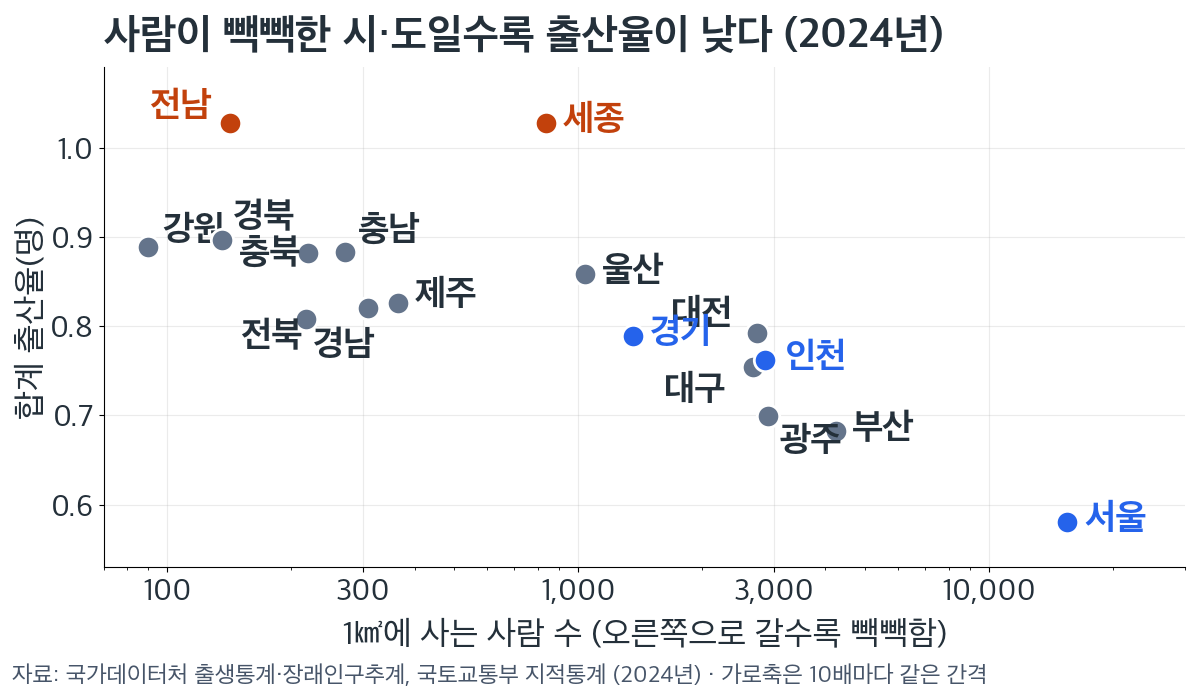
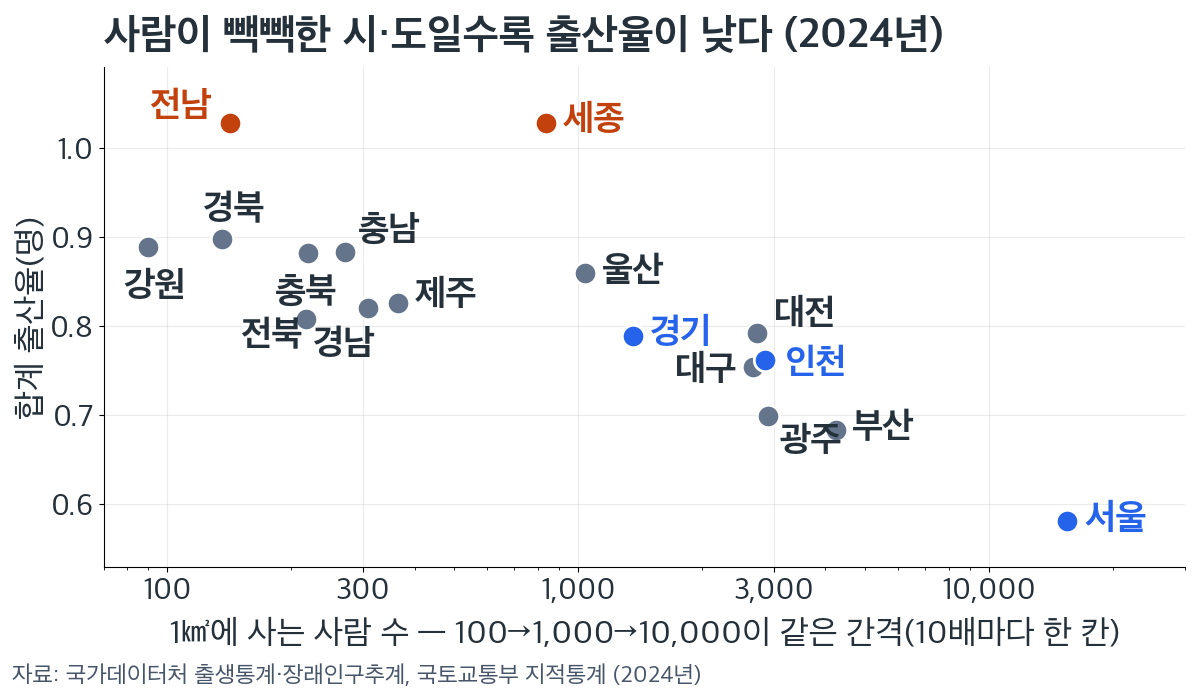
사회② 7-7 일자리 카드 2026년 115.2만·실버 택배 391개 단위, 산점도 이름표·축 설명(메인·역사 🟡🔴 반영)
Claude-Session: https://claude.ai/code/session_0112jfuNjXUAgEuhZG5Yg8vB

diff --git a/worksheets/7-7차시_우리나라의인구문제_개념편.html b/worksheets/7-7차시_우리나라의인구문제_개념편.html
@@ -1463,14 +1463,14 @@ details.v2t-legend ul{margin-top:10px}
 <figure class="ws-fig"><a class="ws-fig-zoom" href="images/7-7_card_job_it.png" target="_blank" rel="noopener" title="눌러서 크게 보기"><img src="images/7-7_card_job_it.png" alt="에버영코리아 — 2024년 시니어 직원 300명 남짓" loading="lazy"></a><figcaption>에버영코리아 — 2024년 시니어 직원 300명 남짓</figcaption></figure>
 <p>2013년에 세워진 에버영코리아는 55세 이상만 뽑는다. 2024년에도 시니어 직원 300명 남짓이 하루 4시간씩 지도 사진 속 얼굴과 자동차 번호판을 가리고, 인터넷 게시물을 살피는 일을 한다.</p>
 </section><section class="ws-sw-pane" data-i="2" hidden><h3 class="ws-sw-h">실버 택배</h3>
-<figure class="ws-fig"><a class="ws-fig-zoom" href="images/7-7_card_job_silver.png" target="_blank" rel="noopener" title="눌러서 크게 보기"><img src="images/7-7_card_job_silver.png" alt="실버 택배 — 지금까지 일자리 1,400여 개" loading="lazy"></a><figcaption>실버 택배 — 지금까지 일자리 1,400여 개</figcaption></figure>
-<p>택배 트럭이 아파트 입구까지 오면, 동네 노인이 전동 카트로 집집마다 나른다. 2013년에 시작해 지금까지 1,400여 개의 일자리가 생겼고, 2024년 한 해에만 391개가 생겼다.</p>
+<figure class="ws-fig"><a class="ws-fig-zoom" href="images/7-7_card_job_silver_v2.png" target="_blank" rel="noopener" title="눌러서 크게 보기"><img src="images/7-7_card_job_silver_v2.png" alt="실버 택배 — 2024년 한 해 노인 일자리 391개" loading="lazy"></a><figcaption>실버 택배 — 2024년 한 해 노인 일자리 391개</figcaption></figure>
+<p>택배 트럭이 아파트 입구까지 오면, 동네 노인이 전동 카트로 집집마다 나른다. 2013년에 시작해 지금도 이어지고, 2024년 한 해에만 노인 일자리 391개를 만들었다고 회사가 밝혔다.</p>
 </section><section class="ws-sw-pane" data-i="3" hidden><h3 class="ws-sw-h">시니어 호스팅</h3>
 <figure class="ws-fig"><a class="ws-fig-zoom" href="images/7-7_card_job_host.png" target="_blank" rel="noopener" title="눌러서 크게 보기"><img src="images/7-7_card_job_host.png" alt="시니어 호스팅 — 2021년 국내 호스트 10명 중 1명이 60세 이상" loading="lazy"></a><figcaption>시니어 호스팅 — 2021년 국내 호스트 10명 중 1명이 60세 이상</figcaption></figure>
 <p>자녀가 떠난 빈방에 여행 손님을 받는다. 2021년 한 숙박 공유 회사의 우리나라 호스트 10명 중 1명이 60세 이상이었다. 다만 한 회사의 숫자라 전체 규모는 알기 어렵고, 지금은 숙박업으로 신고한 집만 손님을 받을 수 있다.</p>
 </section><section class="ws-sw-pane" data-i="4" hidden><h3 class="ws-sw-h">더 큰 그림</h3>
-<figure class="ws-fig"><a class="ws-fig-zoom" href="images/7-7_card_job_gov.png" target="_blank" rel="noopener" title="눌러서 크게 보기"><img src="images/7-7_card_job_gov.png" alt="나라가 만든 노인 일자리 — 2024년 103만 개, 2025년 109만 8천 개" loading="lazy"></a><figcaption>나라가 만든 노인 일자리 — 2024년 103만 개, 2025년 109만 8천 개</figcaption></figure>
-<p>나라도 노인 일자리를 늘리고 있다. 2025년에는 109만 8천 개로 가장 많았다. 7-3·7-4에서 본 외국인 근로자도 모자란 일손을 채우는 또 하나의 길이다.</p>
+<figure class="ws-fig"><a class="ws-fig-zoom" href="images/7-7_card_job_gov_v2.png" target="_blank" rel="noopener" title="눌러서 크게 보기"><img src="images/7-7_card_job_gov_v2.png" alt="나라가 마련한 노인 일자리 — 2024년 103만, 2025년 109만 8천, 2026년 115만 2천 개" loading="lazy"></a><figcaption>나라가 마련한 노인 일자리 — 2024년 103만, 2025년 109만 8천, 2026년 115만 2천 개</figcaption></figure>
+<p>나라도 노인 일자리를 해마다 늘리고 있다. 2026년에는 115만 2천 개를 마련하겠다고 밝혀, 지금까지 가장 많다. 7-3·7-4에서 본 외국인 근로자도 모자란 일손을 채우는 또 하나의 길이다.</p>
 </section></div><div class="ws-sw-nav"><button type="button" onclick="swStep('sw105',-1)">‹ 이전</button><span class="ws-sw-count"><b>1</b> / 5</span><button type="button" onclick="swStep('sw105',1)">다음 ›</button></div></div><script>(function(){if(!window.swGo){window.swGo=function(id,i){var g=document.getElementById(id);if(!g)return;var ps=g.querySelectorAll(".ws-sw-pane"),n=ps.length;i=((i%n)+n)%n;ps.forEach(function(e){e.hidden=(+e.dataset.i!==i);});g.querySelectorAll(".ws-sw-tab").forEach(function(e,k){e.classList.toggle("on",k===i);e.setAttribute("aria-selected",k===i);});var c=g.querySelector(".ws-sw-count b");if(c)c.textContent=i+1;g.dataset.cur=i;};window.swStep=function(id,d){var g=document.getElementById(id);if(g)swGo(id,(+(g.dataset.cur||0))+d);};}var g=document.getElementById("sw105"),x0=null,y0=null;if(!g)return;g.querySelector(".ws-sw-stage").addEventListener("touchstart",function(e){x0=e.touches[0].clientX;y0=e.touches[0].clientY;},{passive:true});g.querySelector(".ws-sw-stage").addEventListener("touchend",function(e){if(x0===null)return;var dx=e.changedTouches[0].clientX-x0,dy=e.changedTouches[0].clientY-y0;x0=null;if(Math.abs(dx)>60&&Math.abs(dx)>1.5*Math.abs(dy)){var t=e.target;if(t.closest&&t.closest("input,textarea,.ws-vcd-track,.ws-mb,.ws-gal,.pk-swipe"))return;swStep("sw105",dx<0?1:-1);g.scrollIntoView({block:"start",behavior:"smooth"});}},{passive:true});})();</script>
 <br>
 <section class="ws-do"><div class="ws-do-tag">직접 해 보는 곳</div><h2>✏ 활동 1 — 세 곳의 인구 문제, 한 표에</h2>
@@ -1488,7 +1488,8 @@ details.v2t-legend ul{margin-top:10px}
 <br>
 <details class="ws-fold ws-fold-더보기"><summary>다 채운 뒤에 — 저출산을 지도로 설명할 수 있을까?</summary><div class="ws-fold-body">
 <figure class="ws-fig"><a class="ws-fig-zoom" href="images/7-7_fig_density_tfr.png" target="_blank" rel="noopener" title="눌러서 크게 보기"><img src="images/7-7_fig_density_tfr.png" alt="17개 시·도의 인구 밀도(가로)와 합계 출산율(세로), 2024년. 파랑은 수도권, 주황은 출산율이 가장 높은 두 곳 — 국가데이터처 출생통계·장래인구추계, 국토교통부 지적통계로 그림" loading="lazy"></a><figcaption>17개 시·도의 인구 밀도(가로)와 합계 출산율(세로), 2024년. 파랑은 수도권, 주황은 출산율이 가장 높은 두 곳 — 국가데이터처 출생통계·장래인구추계, 국토교통부 지적통계로 그림</figcaption></figure>
-<p>점이 오른쪽(빽빽함)으로 갈수록 아래(출산율 낮음)로 내려간다. 서울은 1㎢에 1만 5천 명 넘게 살고 출산율이 0.58명으로 가장 낮다. 전남은 140여 명이 살고 1.03명으로 가장 높다.</p>
+<p>가로축은 100→1,000→10,000이 같은 길이다(10배마다 한 칸). 점이 오른쪽(빽빽함)으로 갈수록 아래(출산율 낮음)로 내려간다. 서울은 1㎢에 1만 5천 명 넘게 살고 출산율이 0.58명으로 가장 낮다. 전남은 140여 명이 살고, 세종과 함께 1.03명으로 가장 높다.</p>
+<p>세종은 밀도가 중간인데도 가장 높아 흐름에서 벗어나 있다. 젊은 공무원 가족이 많이 옮겨 온 새 도시라는 설명이 있다.</p>
 <p>한국은행도 시·도마다 인구 밀도와 출산율을 견주어, 사람이 빽빽한 곳일수록 출산율이 낮은 관계가 뚜렷하다고 분석했다.</p>
 <p>청년이 몰린 수도권은 집값과 경쟁 부담이 커 결혼과 출산을 미루고, 청년이 떠난 지방은 아이를 낳을 사람 자체가 줄었다는 설명이다.</p>
 <p>🔍 7-2의 '수도권 51%'와 이 차시 1단계의 '전남 27%'를 화살표로 이어 보자. 다만 이것은 '이런 설명이 있다'이지 하나뿐인 답은 아니다.</p>
@@ -1497,7 +1498,7 @@ details.v2t-legend ul{margin-top:10px}
 <p>다 채웠으면 대책 카드로 '어떤 대책' 칸을 점검하자.</p>
 <br>
 <style>/* 2026-10-26 사회 7-5 «좁게» — 그림 없는 짧은 카드. 데스크톱은 한 줄에 다 놓고, 폰은 «이름·값 | 버튼» 한 줄씩 */ .pk-grid.pk-tight { grid-template-columns: repeat(auto-fit, minmax(118px, 1fr)); gap: 8px; } .pk-tight .pk-card { padding: 8px 6px; } .pk-tight .pk-sit { min-height: 0; margin: 2px 0 7px; } .pk-tight .pk-b { padding: 5px 1px; word-break: keep-all; line-height: 1.25; font-size: .74em; } .pk-tight .pk-btns { gap: 3px; } @media (max-width: 640px) {   .pk-grid.pk-tight { grid-template-columns: 1fr; gap: 6px; }   .pk-tight .pk-card { display: grid; grid-template-columns: minmax(0, 1fr) minmax(0, 1.25fr); column-gap: 10px; align-items: center; text-align: left; padding: 7px 10px; }   .pk-tight .pk-name, .pk-tight .pk-sit { grid-column: 1; margin: 0; }   .pk-tight .pk-btns { grid-column: 2; grid-row: 1 / span 2; }   .pk-tight .pk-why { grid-column: 1 / -1; } } /* 2026-10-27 사회 7-5 «센 수/견준 값»: 금테 카드도 «좁게» — 칸마다 깔던 크림 판 대신 카드 하나를 크림 판+금테(배경 두 겹)로. 폰 두 칸 배치에서 판이 조각나던 것 */ .pk-gold.pk-tight .pk-card, .pk-gold.pk-tight .pk-card.pk-noimg { padding: 9px 8px; border: 5px solid transparent; border-radius: 13px; background: linear-gradient(#fdf7e6, #fdf7e6) padding-box, linear-gradient(150deg, #fbe9a8 0%, #e7c257 34%, #c9992e 62%, #f3dc98 100%) border-box; } .pk-gold.pk-tight .pk-name, .pk-gold.pk-tight .pk-sit, .pk-gold.pk-tight .pk-btns, .pk-gold.pk-tight .pk-why, .pk-gold.pk-tight .pk-card.pk-noimg .pk-name { background: none; padding: 0; border-radius: 0; } .pk-gold.pk-tight .pk-name { font-size: .95em; line-height: 1.35; word-break: keep-all; } .pk-gold.pk-tight .pk-sit { word-break: keep-all; } .pk-gold.pk-tight .pk-sit { font-size: .8em; line-height: 1.4; margin: 3px 0 7px; } .pk-gold.pk-tight .pk-why { margin-top: 6px; } .pk-gold.pk-tight:has(> .pk-card:nth-child(6)), .pk-gold.pk-tight:has(.pk-b:nth-child(3)) { grid-template-columns: repeat(3, minmax(0, 1fr)); } @media (max-width: 640px) { .pk-grid.pk-gold.pk-tight, .pk-gold.pk-tight:has(> .pk-card:nth-child(6)), .pk-gold.pk-tight:has(.pk-b:nth-child(3)) { grid-template-columns: repeat(2, minmax(0, 1fr)); gap: 7px; } .pk-gold.pk-tight .pk-card, .pk-gold.pk-tight .pk-card.pk-noimg { display: flex; flex-direction: column; text-align: left; padding: 8px 10px; } .pk-gold.pk-tight .pk-sit { margin: 2px 0 6px; } .pk-gold.pk-tight .pk-card.pk-noimg .pk-btns:has(> .pk-b:nth-child(3)) { grid-auto-flow: row; grid-template-columns: 1fr; } .pk-gold.pk-tight .pk-card.pk-noimg .pk-btns:has(> .pk-b:nth-child(4)) { grid-template-columns: 1fr 1fr; } .pk-gold.pk-tight .pk-card.pk-noimg .pk-btns:not(.pk-btns-col) { align-content: center; } }</style>
-<div class="ws-pick" id="pk145"><div class="pk-head"><span>대책 여섯 가지다. 아이를 더 낳게 하려는 것인지, 늘어난 노인과 함께 살려는 것인지 골라 보자. 다 고르면 정답이 나오고, 틀린 카드는 까닭이 먼저 펼쳐진다.</span><b class="pk-count">0 / 6</b></div><div class="pk-grid pk-gold pk-tight"><div class="pk-card pk-noimg" data-i="0" data-ans="저출산 대책"><div class="pk-name">아빠 육아 휴직</div><div class="pk-sit">아버지도 휴직하고 아이를 돌본다</div><div class="pk-btns"><button type="button" class="pk-b" data-v="저출산 대책">저출산 대책</button><button type="button" class="pk-b" data-v="고령화 대책">고령화 대책</button></div><div class="pk-why" hidden>아이를 기르는 부담을 덜어 아이를 낳게 하려는 대책이다</div></div><div class="pk-card pk-noimg" data-i="1" data-ans="고령화 대책"><div class="pk-name">액티브 시니어 일자리</div><div class="pk-sit">일을 그만둘 나이(55세 이상)에 다시 일하는 정보 기술 회사</div><div class="pk-btns"><button type="button" class="pk-b" data-v="저출산 대책">저출산 대책</button><button type="button" class="pk-b" data-v="고령화 대책">고령화 대책</button></div><div class="pk-why" hidden>노인이 일하는 사람으로 남게 하는 대책이다</div></div><div class="pk-card pk-noimg" data-i="2" data-ans="저출산 대책"><div class="pk-name">공공 보육 시설</div><div class="pk-sit">나라가 어린이집을 늘린다</div><div class="pk-btns"><button type="button" class="pk-b" data-v="저출산 대책">저출산 대책</button><button type="button" class="pk-b" data-v="고령화 대책">고령화 대책</button></div><div class="pk-why" hidden>맞벌이 부모의 육아 부담을 덜어 준다(7-5 선진국 대책)</div></div><div class="pk-card pk-noimg" data-i="3" data-ans="고령화 대책"><div class="pk-name">실버 택배</div><div class="pk-sit">노인이 아파트로 택배를 나른다</div><div class="pk-btns"><button type="button" class="pk-b" data-v="저출산 대책">저출산 대책</button><button type="button" class="pk-b" data-v="고령화 대책">고령화 대책</button></div><div class="pk-why" hidden>노인에게 일자리와 소득을 준다</div></div><div class="pk-card pk-noimg" data-i="4" data-ans="고령화 대책"><div class="pk-name">노인 공동체 주택</div><div class="pk-sit">노인끼리 조합을 만들어 함께 산다(7-5 핀란드)</div><div class="pk-btns"><button type="button" class="pk-b" data-v="저출산 대책">저출산 대책</button><button type="button" class="pk-b" data-v="고령화 대책">고령화 대책</button></div><div class="pk-why" hidden>노인이 서로 돌보며 오래 스스로 살게 한다</div></div><div class="pk-card pk-noimg" data-i="5" data-ans="저출산 대책"><div class="pk-name">출산·양육비 지원</div><div class="pk-sit">아이를 낳고 기르는 데 드는 돈을 준다</div><div class="pk-btns"><button type="button" class="pk-b" data-v="저출산 대책">저출산 대책</button><button type="button" class="pk-b" data-v="고령화 대책">고령화 대책</button></div><div class="pk-why" hidden>아이를 기르는 비용 부담을 덜어 준다</div></div></div><div class="pk-result" hidden></div></div><script>(function(){var w=document.getElementById("pk145");var cs=[].slice.call(w.querySelectorAll(".pk-card")),N=cs.length;var OPTS=["저출산 대책", "고령화 대책"],MOOD=false,OPEN=false;function done(){return cs.filter(function(c){return c.dataset.pick}).length}function reveal(){var ok=0;cs.forEach(function(c){var right=c.dataset.pick===c.dataset.ans;if(right)ok++;c.classList.add(right?"pk-ok":"pk-no");if(!right&&MOOD){c.classList.remove("pk-happy","pk-sad");c.classList.add(c.dataset.ans==="웃음"?"pk-happy":"pk-sad");}if(!right||OPEN)c.querySelector(".pk-why").hidden=false;if(right&&!OPEN&&!c.dataset.tap){c.dataset.tap=1;c.classList.add("pk-tap");c.addEventListener("click",function(e){if(e.target.closest&&e.target.closest(".pk-b"))return;var y=c.querySelector(".pk-why");y.hidden=!y.hidden;});}});var r=w.querySelector(".pk-result");r.hidden=false;r.innerHTML="<b>"+ok+" / "+N+"</b> 맞혔어. "+(OPEN?"모든 카드의 이유가 펼쳐졌어 — 틀린 카드부터 보자.":"틀린 카드는 이유가 먼저 펼쳐졌어 — 거기부터 보자. 맞힌 카드도 누르면 이유가 열려.")+"<div class='pk-sum'>"+OPTS.map(function(o,oi){var head=MOOD?(o==="웃음"?"웃는 사람":"우는 사람"):o;var cls=MOOD?(o==="웃음"?"pk-up":"pk-down"):("pk-c"+oi);return "<div class='pk-col "+cls+"'><b>"+head+"</b>"+cs.filter(function(c){return c.dataset.ans===o}).map(function(c){return "<span>"+c.querySelector(".pk-name").textContent+"</span>"}).join("")+"</div>"}).join("")+"</div>";r.scrollIntoView({block:"nearest",behavior:"smooth"});}cs.forEach(function(c){c.querySelectorAll(".pk-b").forEach(function(b){b.addEventListener("click",function(){if(w.classList.contains("pk-done"))return;c.dataset.pick=b.dataset.v;c.classList.add("pk-set");if(MOOD){c.classList.remove("pk-happy","pk-sad");c.classList.add(b.dataset.v==="웃음"?"pk-happy":"pk-sad");}c.querySelectorAll(".pk-b").forEach(function(x){x.classList.toggle("on",x===b)});w.querySelector(".pk-count").textContent=done()+" / "+N;if(done()===N){w.classList.add("pk-done");reveal();}});});});})();</script>
+<div class="ws-pick" id="pk146"><div class="pk-head"><span>대책 여섯 가지다. 아이를 더 낳게 하려는 것인지, 늘어난 노인과 함께 살려는 것인지 골라 보자. 다 고르면 정답이 나오고, 틀린 카드는 까닭이 먼저 펼쳐진다.</span><b class="pk-count">0 / 6</b></div><div class="pk-grid pk-gold pk-tight"><div class="pk-card pk-noimg" data-i="0" data-ans="저출산 대책"><div class="pk-name">아빠 육아 휴직</div><div class="pk-sit">아버지도 휴직하고 아이를 돌본다</div><div class="pk-btns"><button type="button" class="pk-b" data-v="저출산 대책">저출산 대책</button><button type="button" class="pk-b" data-v="고령화 대책">고령화 대책</button></div><div class="pk-why" hidden>아이를 기르는 부담을 덜어 아이를 낳게 하려는 대책이다</div></div><div class="pk-card pk-noimg" data-i="1" data-ans="고령화 대책"><div class="pk-name">액티브 시니어 일자리</div><div class="pk-sit">일을 그만둘 나이(55세 이상)에 다시 일하는 정보 기술 회사</div><div class="pk-btns"><button type="button" class="pk-b" data-v="저출산 대책">저출산 대책</button><button type="button" class="pk-b" data-v="고령화 대책">고령화 대책</button></div><div class="pk-why" hidden>노인이 일하는 사람으로 남게 하는 대책이다</div></div><div class="pk-card pk-noimg" data-i="2" data-ans="저출산 대책"><div class="pk-name">공공 보육 시설</div><div class="pk-sit">나라가 어린이집을 늘린다</div><div class="pk-btns"><button type="button" class="pk-b" data-v="저출산 대책">저출산 대책</button><button type="button" class="pk-b" data-v="고령화 대책">고령화 대책</button></div><div class="pk-why" hidden>맞벌이 부모의 육아 부담을 덜어 준다(7-5 선진국 대책)</div></div><div class="pk-card pk-noimg" data-i="3" data-ans="고령화 대책"><div class="pk-name">실버 택배</div><div class="pk-sit">노인이 아파트로 택배를 나른다</div><div class="pk-btns"><button type="button" class="pk-b" data-v="저출산 대책">저출산 대책</button><button type="button" class="pk-b" data-v="고령화 대책">고령화 대책</button></div><div class="pk-why" hidden>노인에게 일자리와 소득을 준다</div></div><div class="pk-card pk-noimg" data-i="4" data-ans="고령화 대책"><div class="pk-name">노인 공동체 주택</div><div class="pk-sit">노인끼리 조합을 만들어 함께 산다(7-5 핀란드)</div><div class="pk-btns"><button type="button" class="pk-b" data-v="저출산 대책">저출산 대책</button><button type="button" class="pk-b" data-v="고령화 대책">고령화 대책</button></div><div class="pk-why" hidden>노인이 서로 돌보며 오래 스스로 살게 한다</div></div><div class="pk-card pk-noimg" data-i="5" data-ans="저출산 대책"><div class="pk-name">출산·양육비 지원</div><div class="pk-sit">아이를 낳고 기르는 데 드는 돈을 준다</div><div class="pk-btns"><button type="button" class="pk-b" data-v="저출산 대책">저출산 대책</button><button type="button" class="pk-b" data-v="고령화 대책">고령화 대책</button></div><div class="pk-why" hidden>아이를 기르는 비용 부담을 덜어 준다</div></div></div><div class="pk-result" hidden></div></div><script>(function(){var w=document.getElementById("pk146");var cs=[].slice.call(w.querySelectorAll(".pk-card")),N=cs.length;var OPTS=["저출산 대책", "고령화 대책"],MOOD=false,OPEN=false;function done(){return cs.filter(function(c){return c.dataset.pick}).length}function reveal(){var ok=0;cs.forEach(function(c){var right=c.dataset.pick===c.dataset.ans;if(right)ok++;c.classList.add(right?"pk-ok":"pk-no");if(!right&&MOOD){c.classList.remove("pk-happy","pk-sad");c.classList.add(c.dataset.ans==="웃음"?"pk-happy":"pk-sad");}if(!right||OPEN)c.querySelector(".pk-why").hidden=false;if(right&&!OPEN&&!c.dataset.tap){c.dataset.tap=1;c.classList.add("pk-tap");c.addEventListener("click",function(e){if(e.target.closest&&e.target.closest(".pk-b"))return;var y=c.querySelector(".pk-why");y.hidden=!y.hidden;});}});var r=w.querySelector(".pk-result");r.hidden=false;r.innerHTML="<b>"+ok+" / "+N+"</b> 맞혔어. "+(OPEN?"모든 카드의 이유가 펼쳐졌어 — 틀린 카드부터 보자.":"틀린 카드는 이유가 먼저 펼쳐졌어 — 거기부터 보자. 맞힌 카드도 누르면 이유가 열려.")+"<div class='pk-sum'>"+OPTS.map(function(o,oi){var head=MOOD?(o==="웃음"?"웃는 사람":"우는 사람"):o;var cls=MOOD?(o==="웃음"?"pk-up":"pk-down"):("pk-c"+oi);return "<div class='pk-col "+cls+"'><b>"+head+"</b>"+cs.filter(function(c){return c.dataset.ans===o}).map(function(c){return "<span>"+c.querySelector(".pk-name").textContent+"</span>"}).join("")+"</div>"}).join("")+"</div>";r.scrollIntoView({block:"nearest",behavior:"smooth"});}cs.forEach(function(c){c.querySelectorAll(".pk-b").forEach(function(b){b.addEventListener("click",function(){if(w.classList.contains("pk-done"))return;c.dataset.pick=b.dataset.v;c.classList.add("pk-set");if(MOOD){c.classList.remove("pk-happy","pk-sad");c.classList.add(b.dataset.v==="웃음"?"pk-happy":"pk-sad");}c.querySelectorAll(".pk-b").forEach(function(x){x.classList.toggle("on",x===b)});w.querySelector(".pk-count").textContent=done()+" / "+N;if(done()===N){w.classList.add("pk-done");reveal();}});});});})();</script>
 <br>
 </section><section class="ws-do"><div class="ws-do-tag">직접 해 보는 곳</div><h2>❓ OX 퀴즈</h2>
 <br>
@@ -1521,7 +1522,7 @@ details.v2t-legend ul{margin-top:10px}
 </section><h2>🗺 단원 정리 — 같은 문제, 다른 나라</h2>
 <blockquote>🎙 Ⅶ단원에서 만난 여섯 나라를 한 지도에 모았어. 막대를 밀어 1970년에서 2024년으로 가 보자. 원이 줄어들며 파랗게 바뀌는 나라는 어디고, 아직 붉은 나라는 어디일까? 우리나라 원이 얼마나 빨리 작아지는지도 봐.</blockquote>
 <br>
-<div class="ws-mapbar" id="mb170"><div class="ws-mb-head">여섯 나라의 합계 출산율 — 1970년부터 2024년까지</div><div class="ws-mb-map"><img src="images/7-7_tfr_world.png" alt="세계 지도 위에 한국·일본·인도·니제르·프랑스·스웨덴의 위치를 원으로 표시한 지도" loading="lazy"><span class="mb-pin mb-l" style="left:81.7%;top:26.3%"><i></i><b class="mb-lab">한국 <em></em></b></span><span class="mb-pin mb-u" style="left:84.3%;top:26.3%"><i></i><b class="mb-lab">일본 <em></em></b></span><span class="mb-pin mb-d" style="left:70.7%;top:36.9%"><i></i><b class="mb-lab">인도 <em></em></b></span><span class="mb-pin mb-l" style="left:52.2%;top:41.3%"><i></i><b class="mb-lab">니제르 <em></em></b></span><span class="mb-pin mb-l" style="left:50.3%;top:19.2%"><i></i><b class="mb-lab">프랑스 <em></em></b></span><span class="mb-pin mb-r" style="left:53.0%;top:9.7%"><i></i><b class="mb-lab">스웨덴 <em></em></b></span></div><div class="ws-mb-legend"><span><i class="mb-hi"></i>2.1명보다 높다</span><span><i class="mb-lo"></i>2.1명보다 낮다</span><span class="mb-bt">인구가 늘지도 줄지도 않는 수준</span></div><div class="ws-mb-ctl"><button type="button" class="ws-mb-play" aria-label="처음부터 넘겨 보기">▶</button><input type="range" class="ws-mb-range" min="0" max="6" value="0" step="1" aria-label="연도 고르기"><span class="ws-mb-yr"></span></div><div class="ws-mb-read" aria-live="polite"></div></div><script>(function(){var D={"y": ["1970", "1980", "1990", "2000", "2010", "2020", "2024"], "p": [{"n": "한국", "v": [4.53, 2.82, 1.57, 1.48, 1.23, 0.84, 0.75]}, {"n": "일본", "v": [2.13, 1.75, 1.54, 1.36, 1.39, 1.33, 1.15]}, {"n": "인도", "v": [5.62, 4.78, 4.04, 3.35, 2.6, 2.05, 1.96]}, {"n": "니제르", "v": [7.51, 7.78, 7.81, 7.83, 7.64, 6.37, 5.93]}, {"n": "프랑스", "v": [2.55, 1.85, 1.77, 1.89, 2.03, 1.82, 1.61]}, {"n": "스웨덴", "v": [1.92, 1.68, 2.13, 1.54, 1.98, 1.67, 1.43]}], "u": "명", "d": 2, "b": 2.1};var w=document.getElementById("mb170"),rg=w.querySelector(".ws-mb-range"),yr=w.querySelector(".ws-mb-yr"),rd=w.querySelector(".ws-mb-read"),pl=w.querySelector(".ws-mb-play"),ps=w.querySelectorAll(".mb-pin"),mp=w.querySelector(".ws-mb-map"),n=D.y.length;var mx=0;D.p.forEach(function(p){p.v.forEach(function(v){if(v>mx)mx=v;});});function fmt(v){var m=Math.pow(10,D.d);return (Math.round(v*m+1e-9)/m).toFixed(D.d);}function draw(i){i=+i;D.p.forEach(function(p,k){var v=p.v[i],e=ps[k],r=Math.round((8+22*Math.sqrt(v/mx))*Math.max(.55,Math.min(1,mp.clientWidth/700)));var dot=e.querySelector("i");dot.style.width=dot.style.height=r+"px";dot.style.marginLeft=dot.style.marginTop=(-r/2)+"px";e.classList.toggle("mb-up",D.b!=null&&v>=D.b);e.classList.toggle("mb-dn",D.b!=null&&v<D.b);e.querySelector("em").textContent=fmt(v);});yr.textContent=D.y[i]+"년";var o=D.p.map(function(p){return p;}).sort(function(a,b){return b.v[i]-a.v[i];});rd.innerHTML="<b>"+D.y[i]+"년</b> — "+o.map(function(p){return p.n+" <b>"+fmt(p.v[i])+"</b>";}).join(" · ")+(D.u?" ("+D.u+")":"");rg.value=i;}rg.addEventListener("input",function(){draw(rg.value);});var tm=null;pl.addEventListener("click",function(){if(tm){clearInterval(tm);tm=null;pl.textContent="▶";return;}if(window.matchMedia&&matchMedia("(prefers-reduced-motion: reduce)").matches){draw(n-1);return;}var i=0;draw(0);pl.textContent="■";tm=setInterval(function(){i++;draw(i);if(i>=n-1){clearInterval(tm);tm=null;pl.textContent="▶";}},900);});addEventListener("resize",function(){draw(rg.value);});window.addEventListener("beforeprint",function(){draw(n-1);});draw(0);})();</script>
+<div class="ws-mapbar" id="mb171"><div class="ws-mb-head">여섯 나라의 합계 출산율 — 1970년부터 2024년까지</div><div class="ws-mb-map"><img src="images/7-7_tfr_world.png" alt="세계 지도 위에 한국·일본·인도·니제르·프랑스·스웨덴의 위치를 원으로 표시한 지도" loading="lazy"><span class="mb-pin mb-l" style="left:81.7%;top:26.3%"><i></i><b class="mb-lab">한국 <em></em></b></span><span class="mb-pin mb-u" style="left:84.3%;top:26.3%"><i></i><b class="mb-lab">일본 <em></em></b></span><span class="mb-pin mb-d" style="left:70.7%;top:36.9%"><i></i><b class="mb-lab">인도 <em></em></b></span><span class="mb-pin mb-l" style="left:52.2%;top:41.3%"><i></i><b class="mb-lab">니제르 <em></em></b></span><span class="mb-pin mb-l" style="left:50.3%;top:19.2%"><i></i><b class="mb-lab">프랑스 <em></em></b></span><span class="mb-pin mb-r" style="left:53.0%;top:9.7%"><i></i><b class="mb-lab">스웨덴 <em></em></b></span></div><div class="ws-mb-legend"><span><i class="mb-hi"></i>2.1명보다 높다</span><span><i class="mb-lo"></i>2.1명보다 낮다</span><span class="mb-bt">인구가 늘지도 줄지도 않는 수준</span></div><div class="ws-mb-ctl"><button type="button" class="ws-mb-play" aria-label="처음부터 넘겨 보기">▶</button><input type="range" class="ws-mb-range" min="0" max="6" value="0" step="1" aria-label="연도 고르기"><span class="ws-mb-yr"></span></div><div class="ws-mb-read" aria-live="polite"></div></div><script>(function(){var D={"y": ["1970", "1980", "1990", "2000", "2010", "2020", "2024"], "p": [{"n": "한국", "v": [4.53, 2.82, 1.57, 1.48, 1.23, 0.84, 0.75]}, {"n": "일본", "v": [2.13, 1.75, 1.54, 1.36, 1.39, 1.33, 1.15]}, {"n": "인도", "v": [5.62, 4.78, 4.04, 3.35, 2.6, 2.05, 1.96]}, {"n": "니제르", "v": [7.51, 7.78, 7.81, 7.83, 7.64, 6.37, 5.93]}, {"n": "프랑스", "v": [2.55, 1.85, 1.77, 1.89, 2.03, 1.82, 1.61]}, {"n": "스웨덴", "v": [1.92, 1.68, 2.13, 1.54, 1.98, 1.67, 1.43]}], "u": "명", "d": 2, "b": 2.1};var w=document.getElementById("mb171"),rg=w.querySelector(".ws-mb-range"),yr=w.querySelector(".ws-mb-yr"),rd=w.querySelector(".ws-mb-read"),pl=w.querySelector(".ws-mb-play"),ps=w.querySelectorAll(".mb-pin"),mp=w.querySelector(".ws-mb-map"),n=D.y.length;var mx=0;D.p.forEach(function(p){p.v.forEach(function(v){if(v>mx)mx=v;});});function fmt(v){var m=Math.pow(10,D.d);return (Math.round(v*m+1e-9)/m).toFixed(D.d);}function draw(i){i=+i;D.p.forEach(function(p,k){var v=p.v[i],e=ps[k],r=Math.round((8+22*Math.sqrt(v/mx))*Math.max(.55,Math.min(1,mp.clientWidth/700)));var dot=e.querySelector("i");dot.style.width=dot.style.height=r+"px";dot.style.marginLeft=dot.style.marginTop=(-r/2)+"px";e.classList.toggle("mb-up",D.b!=null&&v>=D.b);e.classList.toggle("mb-dn",D.b!=null&&v<D.b);e.querySelector("em").textContent=fmt(v);});yr.textContent=D.y[i]+"년";var o=D.p.map(function(p){return p;}).sort(function(a,b){return b.v[i]-a.v[i];});rd.innerHTML="<b>"+D.y[i]+"년</b> — "+o.map(function(p){return p.n+" <b>"+fmt(p.v[i])+"</b>";}).join(" · ")+(D.u?" ("+D.u+")":"");rg.value=i;}rg.addEventListener("input",function(){draw(rg.value);});var tm=null;pl.addEventListener("click",function(){if(tm){clearInterval(tm);tm=null;pl.textContent="▶";return;}if(window.matchMedia&&matchMedia("(prefers-reduced-motion: reduce)").matches){draw(n-1);return;}var i=0;draw(0);pl.textContent="■";tm=setInterval(function(){i++;draw(i);if(i>=n-1){clearInterval(tm);tm=null;pl.textContent="▶";}},900);});addEventListener("resize",function(){draw(rg.value);});window.addEventListener("beforeprint",function(){draw(n-1);});draw(0);})();</script>
 <br>
 <section class="ws-do"><div class="ws-do-tag">직접 해 보는 곳</div><h2>💭 더 생각해 보기</h2>
 <p>📂 <strong>포트폴리오 ③ 종합</strong> — 7-5·7-6의 마지막 칸과 활동 1 비교표를 바탕으로 쓴다.</p>
